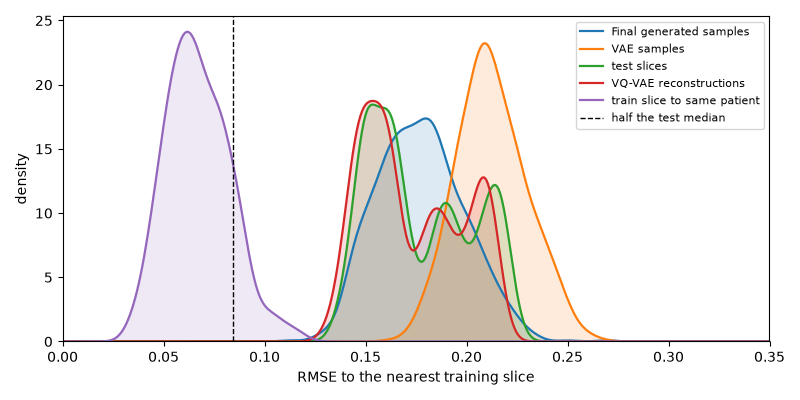
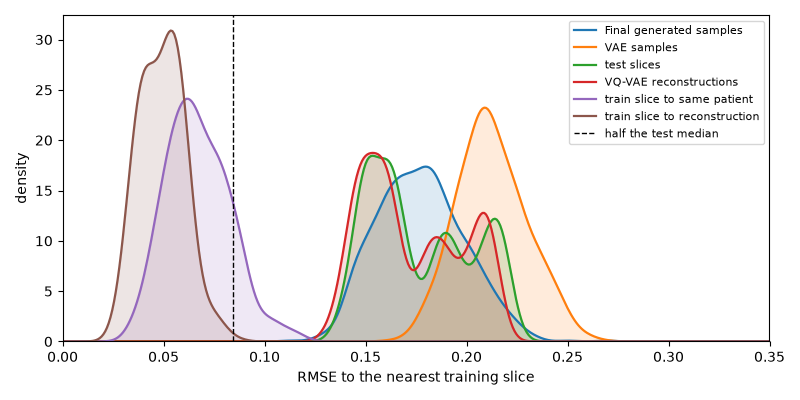
Created memorisation pairs image

diff --git a/recognition/VQ-VAE_s48846134/predict.py b/recognition/VQ-VAE_s48846134/predict.py
@@ -80,15 +80,20 @@ def main():
     ], os.path.join(fig_dir, "samples.png"))
 
 @torch.no_grad()
-def nearest_rmse(queries, bank, chunk=64):
+def nearest(queries, bank, chunk=64):
     bank = bank.flatten(1).float().to(device)
     bank_sq = bank.pow(2).sum(1)
-    out = []
+    dist, idx = [], []
     for i in range(0, len(queries), chunk):
         q = queries[i:i + chunk].flatten(1).float().to(device)
         dist2 = q.pow(2).sum(1, keepdim=True) - 2 * q @ bank.t() + bank_sq
-        out.append((dist2.min(1).values.clamp_min(0) / bank.shape[1]).sqrt().cpu())
-    return torch.cat(out)
+        v, j = dist2.min(1)
+        dist.append((v.clamp_min(0) / bank.shape[1]).sqrt().cpu())
+        idx.append(j.cpu())
+    return torch.cat(dist), torch.cat(idx)
+
+def nearest_rmse(queries, bank, chunk=64):
+    return nearest(queries, bank, chunk)[0]
 
 def summarise(dist):
     return {"median": dist.median().item(), "minimum": dist.min().item()}
@@ -201,6 +206,11 @@ def memorisation_figure():
     images = train["images"].float()
     saved = torch.load(os.path.join(res_dir, "samples.pt"), weights_only=False)
     recon = torch.cat([vq(test[i:i + 32].to(device))[0].cpu() for i in range(0, len(test), 32)])
+    self_rmse = []
+    for i in range(0, len(images), 32):
+        x = images[i:i + 32].to(device)
+        y = vq(x)[0].float()
+        self_rmse.append((y - x.float()).flatten(1).pow(2).mean(1).sqrt().cpu())
     patients = torch.tensor([k[0] for k in train["keys"]])
     groups = (
         ("Final generated samples", nearest_rmse(saved["pixelcnn"].float(), images)),
@@ -208,6 +218,7 @@ def memorisation_figure():
         ("test slices", nearest_rmse(test, images)),
         ("VQ-VAE reconstructions", nearest_rmse(recon, images)),
         ("train slice to same patient", same_patient_rmse(images, patients)),
+        ("train slice to reconstruction", torch.cat(self_rmse)),
     )
     fig, ax = plt.subplots(figsize=(8, 4))
     xs = torch.linspace(0, 0.35, 400)
@@ -227,9 +238,35 @@ def memorisation_figure():
     fig.savefig(os.path.join(fig_dir, "memorisation_distances.png"), dpi=100)
     plt.close(fig)
 
+def memorisation_pairs():
+    os.makedirs(fig_dir, exist_ok=True)
+    train = load_split("train")
+    images = train["images"].float()
+    samples = torch.load(os.path.join(res_dir, "samples.pt"), weights_only=False)["pixelcnn"].float()
+    dist, idx = nearest(samples, images)
+    chosen = list(range(8)) + dist.argsort()[:4].tolist()
+    fig, axes = plt.subplots(3, 8, figsize=(14, 8))
+    for n, i in enumerate(chosen):
+        r, p = divmod(n, 4)
+        c = p * 2
+        neighbour = images[idx[i]:idx[i] + 1]
+        score = ssim(samples[i:i + 1], neighbour, "none").item()
+        for col, img, title in (
+            (c, samples[i, 0], f"sample {i}"),
+            (c + 1, neighbour[0, 0], "nearest case {} w{} s{}\nRMSE {:.3f} SSIM {:.2f}".format(*train["keys"][idx[i]], dist[i], score)),
+        ):
+            axes[r, col].imshow(show(img), cmap="gray", vmin=0, vmax=1)
+            axes[r, col].set_title(title, fontsize=7)
+            axes[r, col].axis("off")
+    fig.suptitle("Generated slice vs nearest training slice")
+    fig.tight_layout()
+    fig.savefig(os.path.join(fig_dir, "memorisation_pairs.png"), dpi=100)
+    plt.close(fig)
+
 if __name__ == "__main__":
     main()
     memorisation()
     resources()
     interpolation()
     memorisation_figure()
+    memorisation_pairs()
